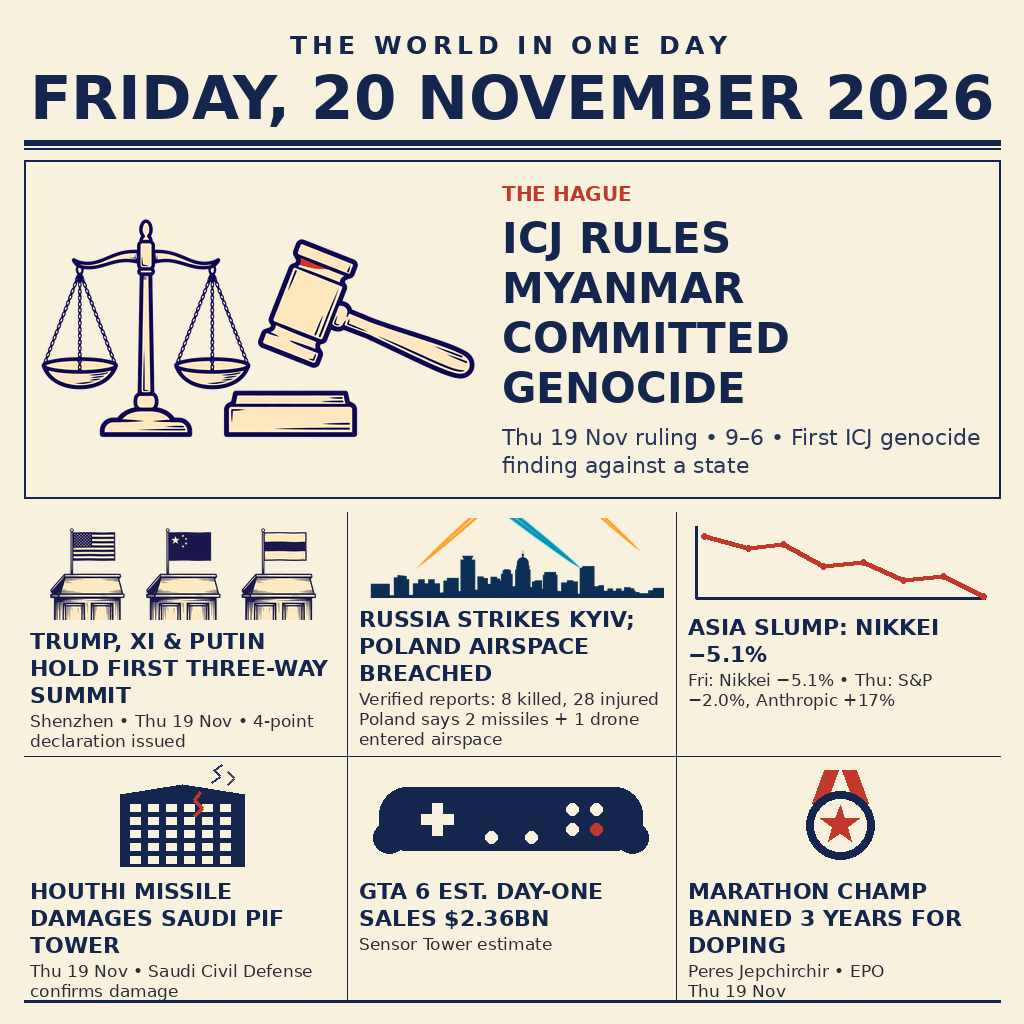
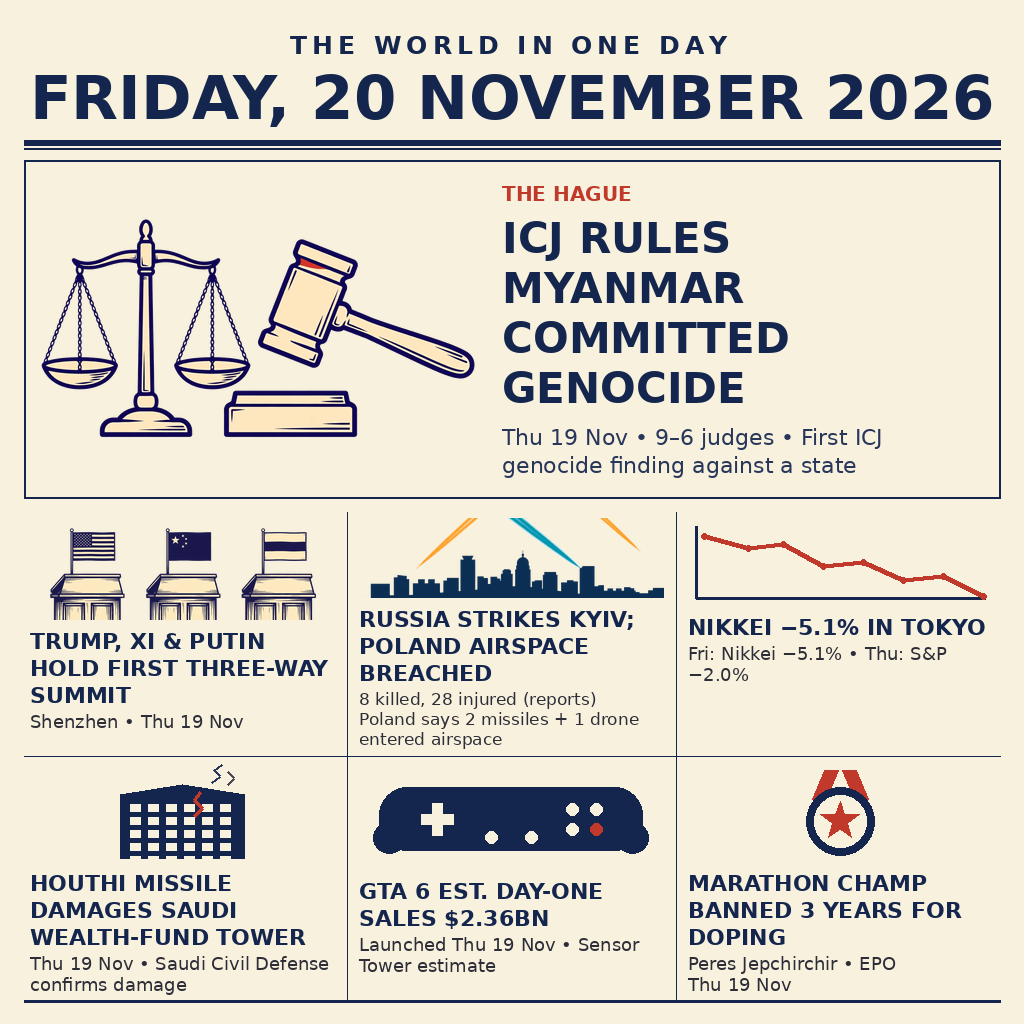
Rev5 per Claude REVISI: 9-6 judges, Nikkei headline, reports attribution, wealth-fund tower, GTA launch date, summit sub trimmed, subs 18px (Kyiv 17px)

diff --git a/build_image.py b/build_image.py
@@ -236,10 +236,9 @@ def main():
         d.text((tx, y), ln, font=head_fnt, fill=NAVY)
         y += 50
     sub_fnt = font(REG, 22)
-    # rev4: full dateline sub wraps to 3 lines and its bottom (502) crosses
-    # the hero frame (498) — the hero headline is 4 lines, not 2. Use the
-    # parent-authorised short version (2 lines, bottom 474).
-    slines = wrap(d, "Thu 19 Nov ruling • 9–6 • First ICJ genocide finding against a state",
+    # rev5: "9-6 judges" (Claude: bare "9-6" is meaningless); "ruling"
+    # dropped so the line stays 2 lines (bottom 480, frame 498).
+    slines = wrap(d, "Thu 19 Nov • 9–6 judges • First ICJ genocide finding against a state",
                   sub_fnt, tw)
     y += 10
     for ln in slines:
@@ -262,34 +261,38 @@ def main():
         ASSETS, "media-generation-riyadh-0-03bfc5b7-1ef1-46c9-bb82-aabe04311fe9.png")))
 
     panels = [
-        # (row, col, icon_kind, headline, sub, icon_h)
+        # (row, col, icon_kind, headline, sub, icon_h, sub_size)
+        # rev5: subs at 18px except Kyiv (17px — its 3-line sub overflows
+        # the tile at 18px); leading = sub_size + 3 (20 at 17px, as rev4).
         (0, 0, ("img", summit, 0.06, 0.55),
          "TRUMP, XI & PUTIN HOLD FIRST THREE-WAY SUMMIT",
-         "Shenzhen • Thu 19 Nov • 4-point declaration issued", 102),
+         "Shenzhen • Thu 19 Nov", 102, 18),
         (0, 1, ("img", kyiv, 0.52, 1.0),
          "RUSSIA STRIKES KYIV; POLAND AIRSPACE BREACHED",
-         ["Verified reports: 8 killed, 28 injured",
-          "Poland says 2 missiles + 1 drone entered airspace"], 80),
+         ["8 killed, 28 injured (reports)",
+          "Poland says 2 missiles + 1 drone entered airspace"], 80, 17),
         (0, 2, ("chart", None, None, None),
-         "ASIA SLUMP: NIKKEI −5.1%",
-         # rev4: full sub wrapped to 3 lines with orphaned "debut"; use the
-         # parent-authorised Friday-first short version instead (2 clean lines).
-         "Fri: Nikkei −5.1% • Thu: S&P −2.0%, Anthropic +17%", 88),
+         "NIKKEI −5.1% IN TOKYO",
+         # rev5: single-index headline (Claude: "ASIA SLUMP" is wider than
+         # the evidence shown); Anthropic clause dropped (unexplained).
+         "Fri: Nikkei −5.1% • Thu: S&P −2.0%", 88, 18),
         (1, 0, ("tower", None, None, None),
-         "HOUTHI MISSILE DAMAGES SAUDI PIF TOWER",
-         "Thu 19 Nov • Saudi Civil Defense confirms damage", 102),
+         "HOUTHI MISSILE DAMAGES SAUDI WEALTH-FUND TOWER",
+         # rev5: icon 102 -> 94 — the 3-line headline needs the headroom
+         # (at 102 the sub's last line ended 1px past the tile bottom).
+         "Thu 19 Nov • Saudi Civil Defense confirms damage", 94, 18),
         (1, 1, ("pad", None, None, None),
          "GTA 6 EST. DAY-ONE SALES $2.36BN",
-         "Sensor Tower estimate", 102),
+         "Launched Thu 19 Nov • Sensor Tower estimate", 102, 18),
         (1, 2, ("medal", None, None, None),
          "MARATHON CHAMP BANNED 3 YEARS FOR DOPING",
          # split into two balanced lines (rev4): one-string wrap orphans "Nov"
-         ["Peres Jepchirchir • EPO", "Thu 19 Nov"], 102),
+         # rev5: icon 102 -> 94 lifts the sub 8px off the bottom rule (Claude).
+         ["Peres Jepchirchir • EPO", "Thu 19 Nov"], 94, 18),
     ]
 
     hfnt = font(BOLD, 22)
-    sfnt = font(REG, 17)   # rev4: one step up from 16 (18 overflows Kyiv's 2-line sub to 4 lines)
-    for (r, c, icon, head, sub, icon_h) in panels:
+    for (r, c, icon, head, sub, icon_h, sub_size) in panels:
         x0, y0 = cols[c], rows[r]
         x1, y1 = x0 + pw, y0 + ph
         # icon zone (Kyiv's is shorter so its 2-line sub fits)
@@ -315,11 +318,12 @@ def main():
             d.text((x0 + 6, ty), ln, font=hfnt, fill=NAVY)
             ty += 27
         ty += 2
+        sfnt = font(REG, sub_size)
         sub_lines = sub if isinstance(sub, list) else [sub]
         for s in sub_lines:
             for ln in wrap(d, s, sfnt, pw - 12):
                 d.text((x0 + 6, ty), ln, font=sfnt, fill=GRAY_DARK)
-                ty += 20
+                ty += sub_size + 3
 
     # broadsheet rules between panels
     for i in (1, 2):
